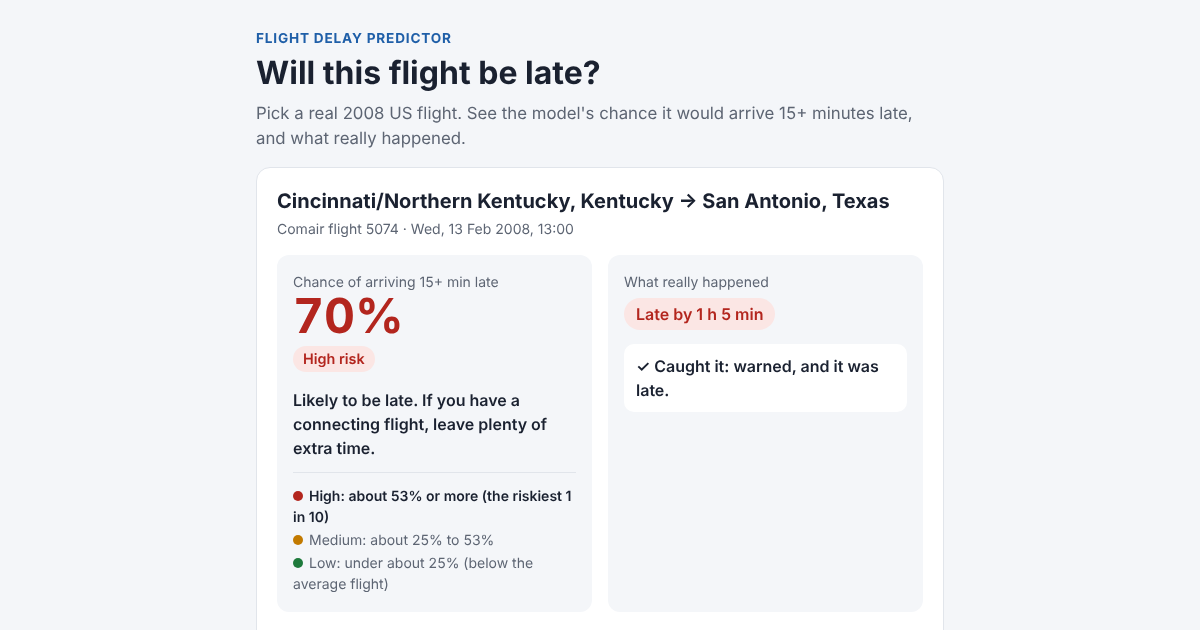
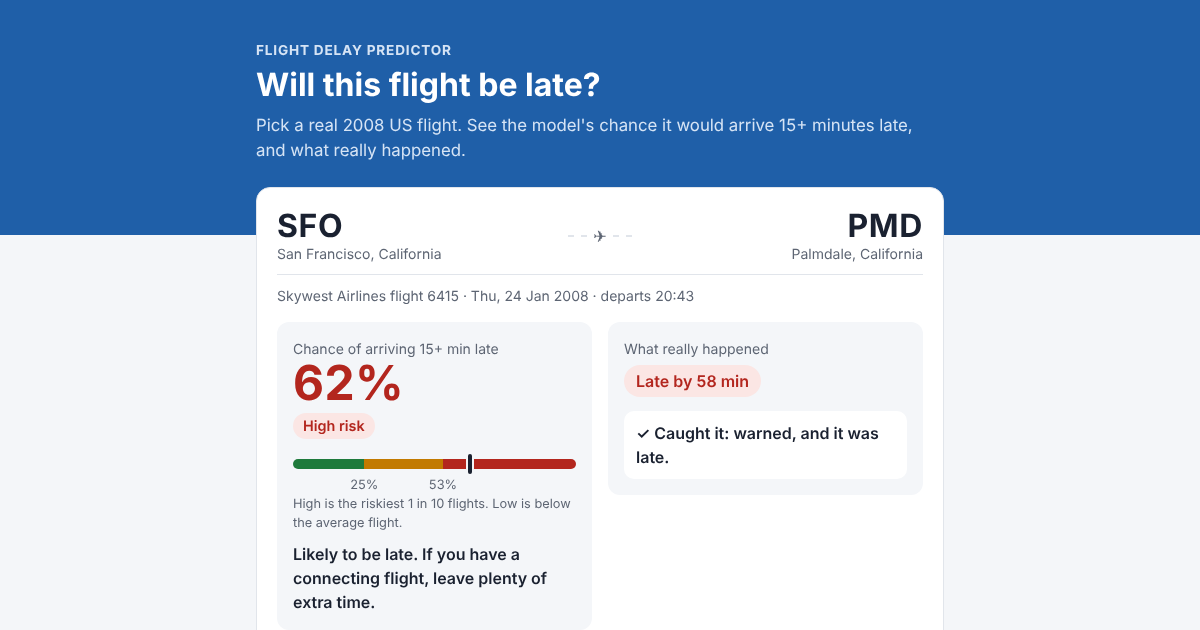
Give the demo a flight-app look, borrowing patterns from real flight sites
- Blue header band with the search card overlapping it (flight-search sites)
- Route shown like a boarding pass: big airport codes, city names under them (Flighty, FlightAware)
- A Low / Medium / High meter with a pin at the flight's chance, replacing the three-line legend
- 'Why' as a short list with up and down arrows instead of one long sentence
- Drop-downs lead with the airport code and flight code, so they survive phone widths
- The answer boxes no longer stretch into empty space; the colour key under the bars is gone

Claude-Session: https://claude.ai/code/session_018r4oSc3BkHHSBWiZ7iPU8M

diff --git a/docs/index.html b/docs/index.html
@@ -19,18 +19,48 @@
     --bg: #f4f6f9; --card: #ffffff; --text: #1a2130; --muted: #5d6573; --line: #e1e5eb;
     --accent: #1f5fa8; --accent-soft: #e3edf8;
     --late: #b3261e; --late-soft: #fbe6e4; --ok: #1e7a3c; --ok-soft: #e2f3e7; --mid: #c27a00;
+    --hero: #1f5fa8; --hero-text: #ffffff; --hero-muted: #d6e4f5;
   }
   @media (prefers-color-scheme: dark) {
     :root {
       --bg: #11141a; --card: #1a1f28; --text: #e8ebf0; --muted: #a2a9b5; --line: #2c3340;
       --accent: #7fb0eb; --accent-soft: #22344a;
       --late: #f08a82; --late-soft: #452321; --ok: #7fd197; --ok-soft: #1e3827; --mid: #e3a94f;
+      --hero: #1b2d47; --hero-text: #ffffff; --hero-muted: #b8c8dd;
     }
   }
   * { box-sizing: border-box; }
   body { margin: 0; background: var(--bg); color: var(--text);
          font: 16px/1.5 system-ui, -apple-system, "Segoe UI", Roboto, sans-serif; }
-  main { max-width: 720px; margin: 0 auto; padding: 40px 16px 48px; }
+  main { max-width: 720px; margin: 0 auto; padding: 0 16px 48px; }
+  /* A coloured band at the top with the search card overlapping it, like airline and flight-search sites */
+  .hero { background: var(--hero); color: var(--hero-text); padding: 40px 16px 72px; }
+  .hero-inner { max-width: 688px; margin: 0 auto; }
+  .hero .eyebrow { color: var(--hero-muted); }
+  .hero .lead { color: var(--hero-muted); margin: 0; }
+  main > .card:first-child { margin-top: -48px; box-shadow: 0 8px 24px rgba(16, 32, 64, 0.12); }
+
+  /* The flight's route, laid out like a boarding pass: big airport codes, city names under them */
+  .route { display: grid; grid-template-columns: 1fr auto 1fr; align-items: center; gap: 12px; }
+  .route .code { font-size: 2rem; font-weight: 700; letter-spacing: 0.02em; line-height: 1.1; }
+  .route .city { color: var(--muted); font-size: 0.875rem; }
+  .route .to { text-align: right; }
+  .route .path { display: flex; align-items: center; gap: 6px; color: var(--muted); min-width: 64px; }
+  .route .path::before, .route .path::after { content: ""; flex: 1; border-top: 2px dashed var(--line); }
+  .flight-meta { margin: 10px 0 0; padding-top: 10px; border-top: 1px solid var(--line); }
+
+  /* The risk meter: where this flight's chance sits on the Low / Medium / High scale */
+  .meter { margin: 14px 0 0; }
+  .meter-bar { position: relative; display: flex; height: 10px; border-radius: 999px; overflow: hidden; }
+  .meter-bar .seg.low { background: var(--ok); }
+  .meter-bar .seg.medium { background: var(--mid); }
+  .meter-bar .seg.high { background: var(--late); }
+  .meter-wrap { position: relative; }
+  .meter-pin { position: absolute; top: -5px; width: 4px; height: 20px; margin-left: -2px; border-radius: 2px;
+               background: var(--text); box-shadow: 0 0 0 2px var(--bg); }
+  .meter-labels { position: relative; height: 1.3em; margin-top: 6px; font-size: 0.8rem; color: var(--muted); }
+  .meter-labels span { position: absolute; transform: translateX(-50%); white-space: nowrap; }
+  .meter-note { margin: 2px 0 0; font-size: 0.8rem; color: var(--muted); }
   h1 { font-size: 2rem; line-height: 1.2; margin: 0 0 8px; }
   h2 { font-size: 1.25rem; line-height: 1.3; margin: 0 0 4px; }
   .eyebrow { margin: 0 0 6px; color: var(--accent); font-weight: 700; font-size: 0.85rem;
@@ -64,7 +94,7 @@
 
   /* The answer */
   .flight-title { display: flex; flex-wrap: wrap; justify-content: space-between; gap: 4px 16px; }
-  .answer { display: grid; grid-template-columns: 1fr 1fr; gap: 16px; margin-top: 16px; }
+  .answer { display: grid; grid-template-columns: 1fr 1fr; gap: 16px; margin-top: 16px; align-items: start; }
   .box { border-radius: 12px; padding: 16px; background: var(--bg); }
   .big { font-size: 3rem; font-weight: 700; line-height: 1; font-variant-numeric: tabular-nums; }
   .higher { color: var(--late); }
@@ -77,15 +107,15 @@
   .risk.high { background: var(--late-soft); color: var(--late); }
   .risk.low { background: var(--ok-soft); color: var(--ok); }
   .medium { color: var(--text); }
-  .legend { margin: 12px 0 0; padding: 10px 0 0; border-top: 1px solid var(--line); list-style: none; font-size: 0.875rem; color: var(--muted); }
-  .legend li { margin: 2px 0; }
-  .legend .dot { display: inline-block; width: 10px; height: 10px; border-radius: 50%; margin-right: 6px; }
-  .legend .dot.high { background: var(--late); }
-  .legend .dot.medium { background: var(--mid); }
-  .legend .dot.low { background: var(--ok); }
-  .legend .here { color: var(--text); font-weight: 600; }
+  .visually-hidden { position: absolute; width: 1px; height: 1px; overflow: hidden; clip: rect(0 0 0 0); }
   .reasons { margin: 14px 0 0; }
   .reasons p { margin: 0 0 6px; }
+  .why-list { list-style: none; padding: 0; margin: 4px 0 8px; }
+  .why-list li { display: flex; gap: 10px; align-items: baseline; padding: 8px 0; border-bottom: 1px solid var(--line); }
+  .why-list li:last-child { border-bottom: 0; }
+  .why-list .arrow { font-size: 0.8rem; flex: none; }
+  .why-list .up .arrow { color: var(--late); }
+  .why-list .down .arrow { color: var(--ok); }
   .judgement { margin: 14px 0 0; padding: 10px 12px; border-radius: 10px; background: var(--card); font-weight: 600; }
   details { margin-top: 14px; border-top: 1px solid var(--line); padding-top: 12px; }
   summary { cursor: pointer; font-weight: 600; }
@@ -142,11 +172,15 @@
 </style>
 </head>
 <body>
+<header class="hero">
+  <div class="hero-inner">
+    <p class="eyebrow">Flight delay predictor</p>
+    <h1>Will this flight be late?</h1>
+    <p class="lead">Pick a real 2008 US flight. See the model's chance it would arrive 15+ minutes late, and what
+      really happened.</p>
+  </div>
+</header>
 <main>
-  <p class="eyebrow">Flight delay predictor</p>
-  <h1>Will this flight be late?</h1>
-  <p class="lead">Pick a real 2008 US flight. See the model's chance it would arrive 15+ minutes late, and what
-    really happened.</p>
 
   <section class="card">
     <div class="search">
@@ -277,7 +311,7 @@ function fillAirports() {
   // The 10 busiest first, since most visitors look for a big airport; then every airport A to Z
   const busiest = Object.keys(counts).sort((a, b) => counts[b] - counts[a]).slice(0, 10);
   const all = Object.keys(counts).sort((a, b) => place(a).localeCompare(place(b)));
-  const options = codes => codes.map(code => `<option value="${code}">${place(code)}</option>`).join("");
+  const options = codes => codes.map(code => `<option value="${code}">${code} · ${place(code)}</option>`).join("");
   airport.innerHTML = `<optgroup label="Busiest airports">${options(busiest)}</optgroup>` +
     `<optgroup label="All airports, A to Z">${options(all)}</optgroup>`;
 }
@@ -287,7 +321,7 @@ function fillDestinations() {
   const counts = countBy(flights.filter(f => f.origin === airport.value), "dest");
   const codes = Object.keys(counts).sort((a, b) => counts[b] - counts[a]);
   destination.innerHTML = codes.map(code =>
-    `<option value="${code}">${place(code)} (${counts[code]} ${counts[code] === 1 ? "flight" : "flights"})</option>`).join("");
+    `<option value="${code}">${code} · ${place(code)} (${counts[code]} ${counts[code] === 1 ? "flight" : "flights"})</option>`).join("");
 }
 
 function flightsOnRoute() {
@@ -299,7 +333,7 @@ function fillFlights() {
   // Every date is in 2008, so the drop-down leaves the year out to stay short
   flightPicker.innerHTML = flightsOnRoute().map((f, i) =>
     `<option value="${i}">${niceDate(f.date).replace(" 2008", "")}, ${clock(f.scheduled_departure)} · ` +
-    `${shortName(data.carriers[f.carrier])} ${f.flight_number}</option>`).join("");
+    `${f.carrier} ${f.flight_number} · ${shortName(data.carriers[f.carrier])}</option>`).join("");
 }
 
 // Words for each group of facts in docs/flights.json's reasons_2h (src/explain_flights.py),
@@ -320,22 +354,19 @@ const REASONS = {
   plane_age: f => "The plane's age",
 };
 
-// "Why": the model's biggest reasons in one or two plain sentences, biggest first
+// "Why": the model's biggest reasons as a short list, biggest first; ▲ raised the chance, ▼ lowered it
 function reasons(f) {
   if (!f.reasons_2h || !f.reasons_2h.length) return "";
-  // The reason labels start with a capital; inside a sentence they shouldn't
-  const words = group => { const text = REASONS[group](f); return text[0].toLowerCase() + text.slice(1); };
-  const list = items => items.length < 2 ? items.join("")
-    : items.slice(0, -1).join(", ") + " and " + items[items.length - 1];
-  const up = f.reasons_2h.filter(([, points]) => points > 0).map(([group]) => words(group));
-  const down = f.reasons_2h.filter(([, points]) => points < 0).map(([group]) => words(group));
-  const sentences = [];
-  if (up.length) sentences.push(`<p>Raised by ${list(up)}.</p>`);
-  if (down.length) sentences.push(`<p>Lowered by ${list(down)}.</p>`);
+  const rows = f.reasons_2h.map(([group, points]) => {
+    const up = points > 0;
+    return `<li class="${up ? "up" : "down"}"><span class="arrow" aria-hidden="true">${up ? "▲" : "▼"}</span>
+      <span><span class="visually-hidden">${up ? "Raised by: " : "Lowered by: "}</span>${REASONS[group](f)}</span></li>`;
+  }).join("");
   const note = chosenTime === "risk_2h" ? "" : " (2-hour prediction)";
   return `<div class="reasons"><p><strong>Why</strong>${note}</p>
-    ${sentences.join("")}
-    <p class="small">What the model weighed most, not proven causes. It uses only what was known at the time of the prediction.</p></div>`;
+    <ul class="why-list">${rows}</ul>
+    <p class="small">▲ raised the chance, ▼ lowered it. These are what the model weighed most, not proven causes,
+      and it only uses what was known at the time.</p></div>`;
 }
 
 
@@ -358,18 +389,26 @@ function riskLevel(f, field) {
   return f[field] < data.summary.late_overall ? "low" : "medium";
 }
 
-// What each risk level means at the chosen time, so "High" isn't a mystery; the flight's own level is in bold
-function legend(field, level) {
-  const high = percent(warningCutoff[field]);
-  const average = percent(data.summary.late_overall);
-  const rows = [
-    // "About", because a flight right on a line can round to the line's number (e.g. 45.3% shows as 45% but is Medium)
-    ["high", `High: about ${high} or more (the riskiest 1 in 10)`],
-    ["medium", `Medium: about ${average} to ${high}`],
-    ["low", `Low: under about ${average} (below the average flight)`],
-  ];
-  return `<ul class="legend">${rows.map(([key, text]) =>
-    `<li class="${key === level ? "here" : ""}"><span class="dot ${key}"></span>${text}</li>`).join("")}</ul>`;
+// A Low / Medium / High scale with a pin at this flight's chance, so "High" isn't a mystery
+function meter(f, field) {
+  const average = data.summary.late_overall;      // below this: Low
+  const cutoff = warningCutoff[field];            // at or above this: High (the riskiest 1 in 10)
+  const pct = share => (share * 100).toFixed(1) + "%";
+  return `<div class="meter" aria-hidden="true">
+      <div class="meter-wrap">
+        <div class="meter-bar">
+          <span class="seg low" style="width:${pct(average)}"></span>
+          <span class="seg medium" style="width:${pct(cutoff - average)}"></span>
+          <span class="seg high" style="flex:1"></span>
+        </div>
+        <span class="meter-pin" style="left:${pct(f[field])}"></span>
+      </div>
+      <div class="meter-labels">
+        <span style="left:${pct(average)}">${percent(average)}</span>
+        <span style="left:${pct(cutoff)}">${percent(cutoff)}</span>
+      </div>
+    </div>
+    <p class="meter-note">High is the riskiest 1 in 10 flights. Low is below the average flight.</p>`;
 }
 
 // Was the model right? Judged by the warning list, the same yardstick as the results
@@ -400,8 +439,7 @@ function barsOverTime(f) {
     <div class="time-row${field === chosenTime ? " chosen" : ""}"><span>${label.replace(" hours", " h").replace(" hour", " h")}</span>
       <div class="time-track"><div class="time-fill ${riskLevel(f, field)}" style="width:${percent(f[field])}"></div></div>
       <span class="num">${chance(f[field])}</span></div>`).join("");
-  return `<p>${trend}</p>${rows}
-    <p class="small">Colours: <span class="higher">high</span>, <span class="mid-text">medium</span>, <span class="lower">low</span> risk</p>`;
+  return `<p>${trend}</p>${rows}`;
 }
 
 function showFlight(f) {
@@ -412,18 +450,21 @@ function showFlight(f) {
     : `<span class="verdict ok">On time</span>`;
   result.hidden = false;
   result.innerHTML = `
-    <div class="flight-title">
-      <h2>${place(f.origin)} → ${place(f.dest)}</h2>
+    <h2 class="visually-hidden">${place(f.origin)} to ${place(f.dest)}</h2>
+    <div class="route">
+      <div><div class="code">${f.origin}</div><div class="city">${place(f.origin)}</div></div>
+      <div class="path" aria-hidden="true">✈</div>
+      <div class="to"><div class="code">${f.dest}</div><div class="city">${place(f.dest)}</div></div>
     </div>
-    <p class="small" style="margin:0">${shortName(data.carriers[f.carrier])} flight ${f.flight_number} ·
-      ${niceDate(f.date)}, ${clock(f.scheduled_departure)}</p>
+    <p class="small flight-meta">${shortName(data.carriers[f.carrier])} flight ${f.flight_number} ·
+      ${niceDate(f.date)} · departs ${clock(f.scheduled_departure)}</p>
     <div class="answer">
       <div class="box">
         <div class="small">Chance of arriving 15+ min late</div>
         <div class="big ${{high: "higher", medium: "medium", low: "lower"}[level]}">${chance(f[chosenTime])}</div>
         <span class="risk ${level}">${level[0].toUpperCase() + level.slice(1)} risk</span>
+        ${meter(f, chosenTime)}
         <p class="tip">${TIPS[level]}</p>
-        ${legend(chosenTime, level)}
       </div>
       <div class="box">
         <div class="small">What really happened</div>
